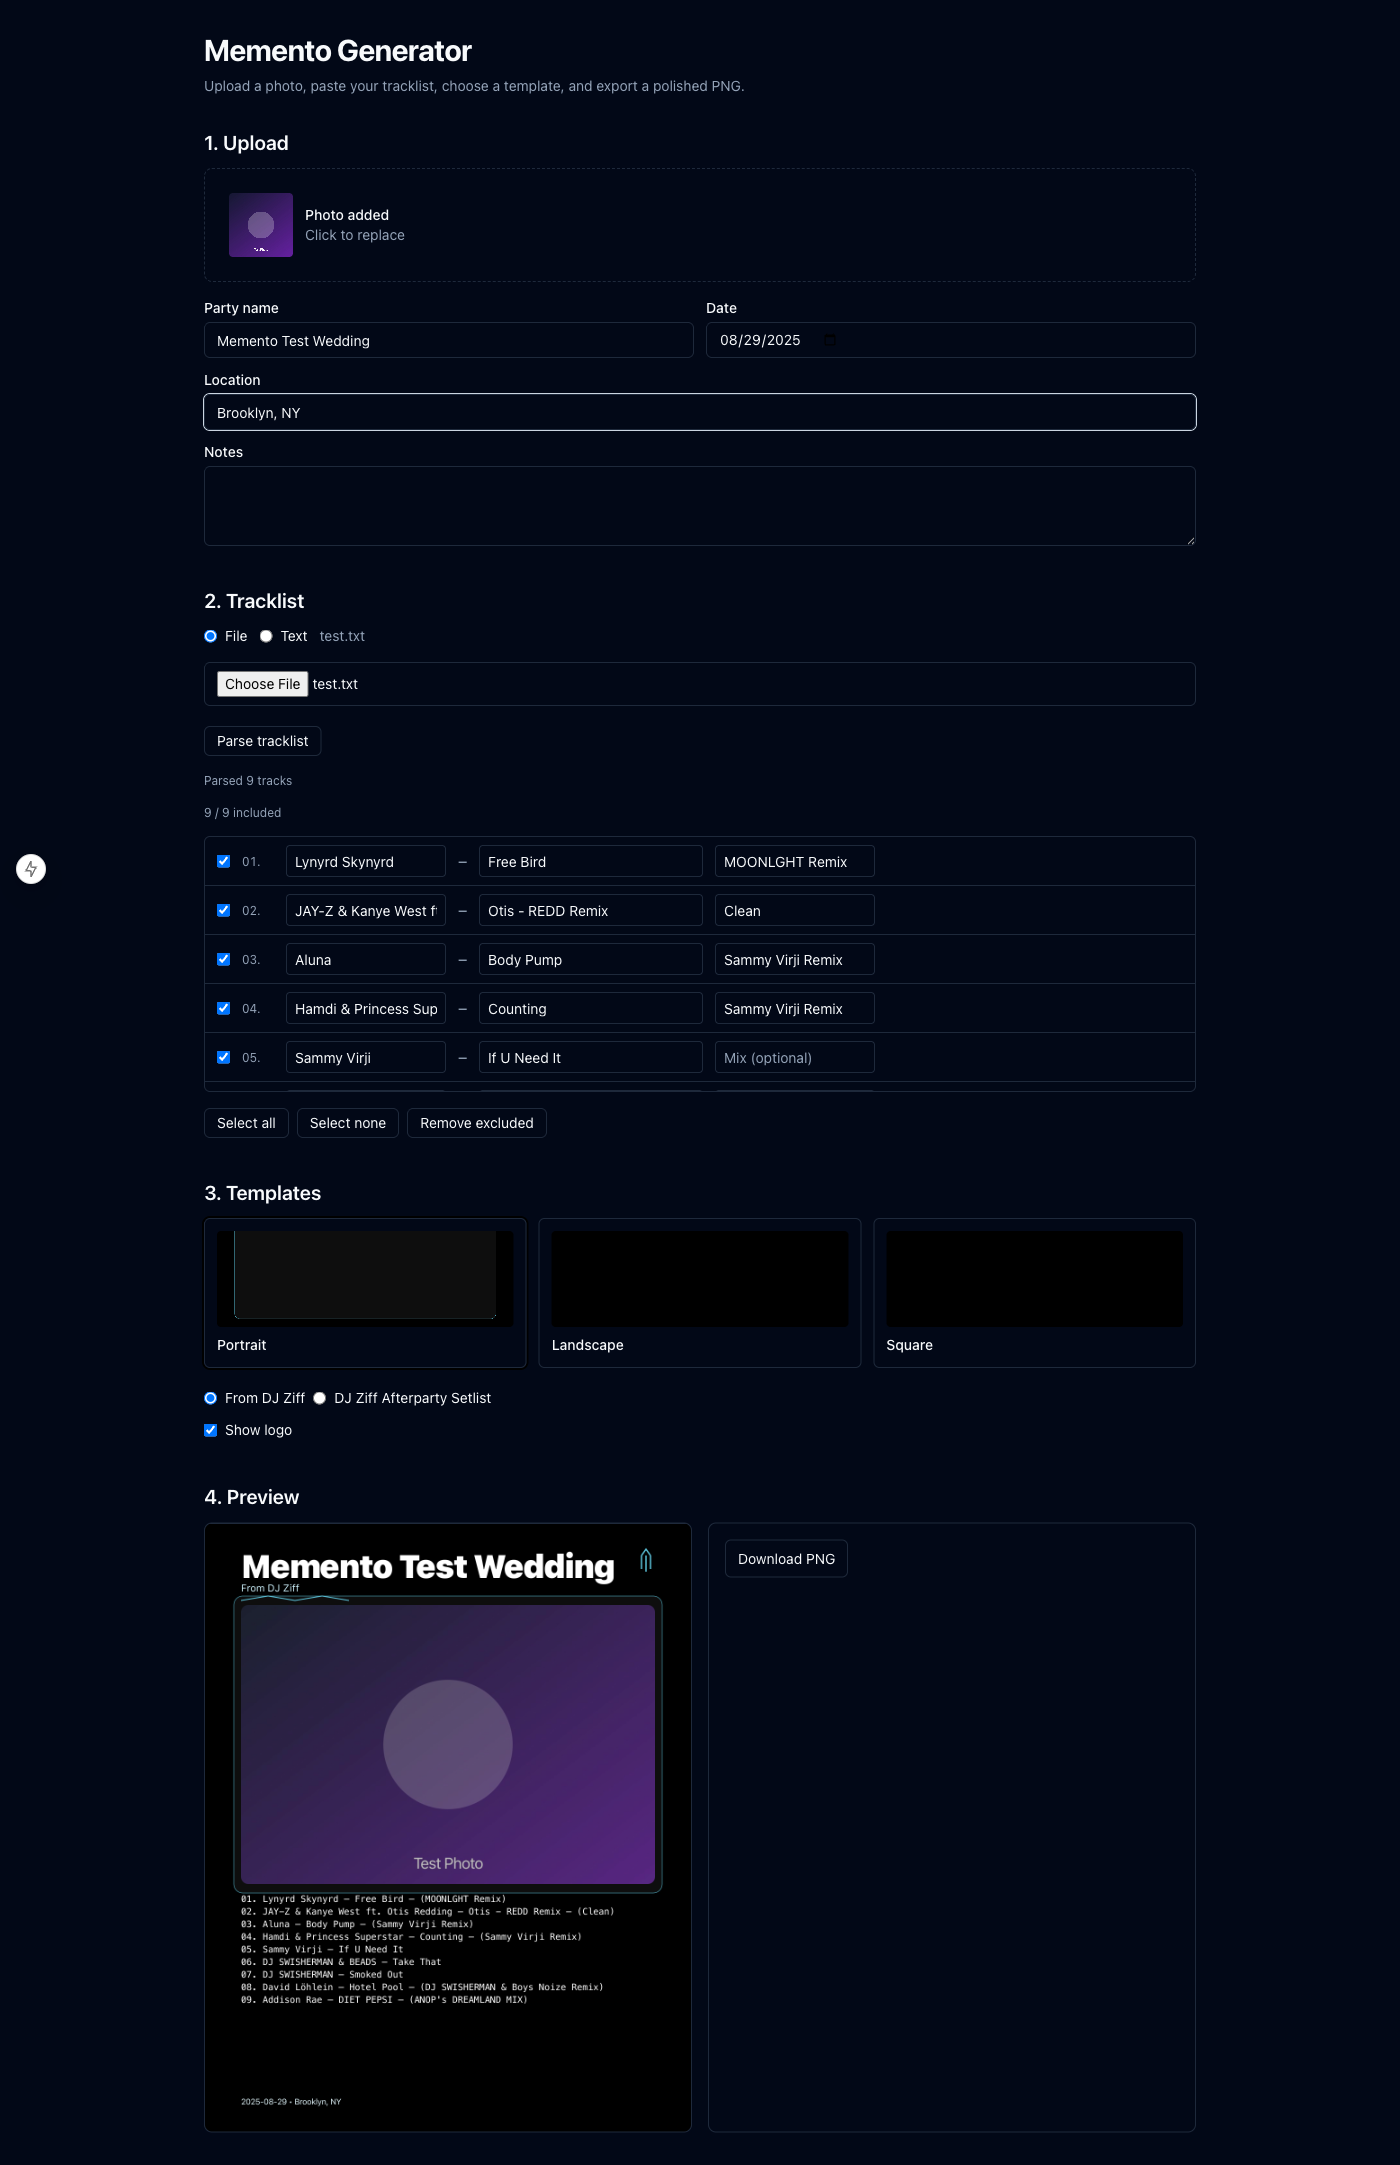
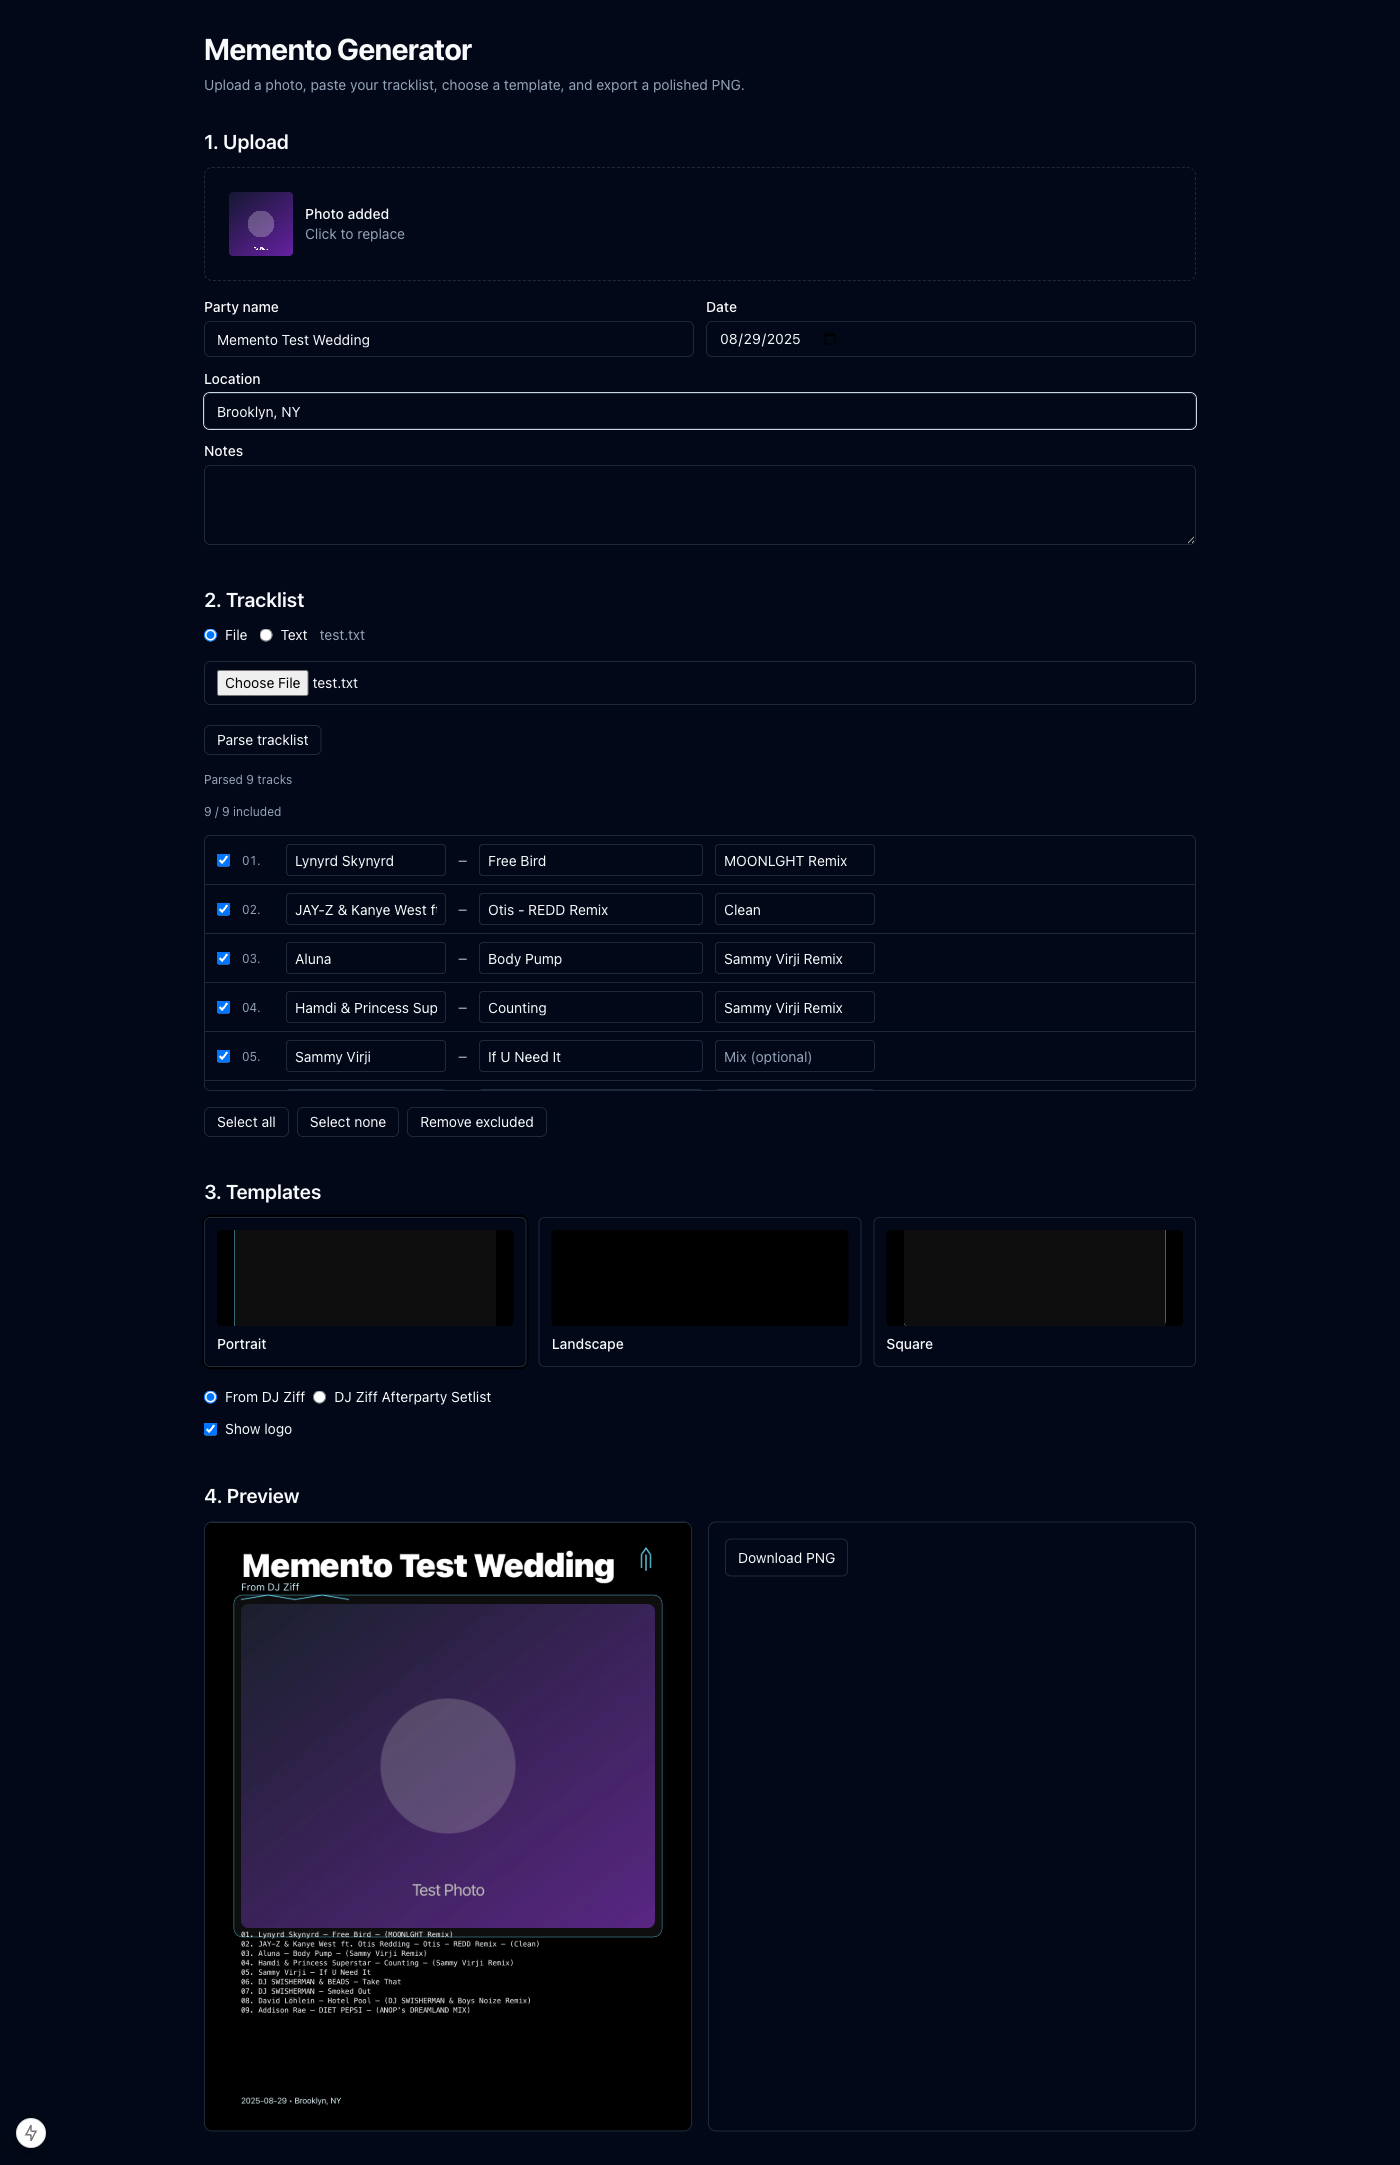
fix other templates

diff --git a/app/(ui)/memento/render/templates.ts b/app/(ui)/memento/render/templates.ts
@@ -38,20 +38,20 @@ export const TEMPLATE_MAP: Record<TemplateId, TemplateConfig> = {
         width: 1080,
         height: 1350,
         // show the whole photo, never crop
-        photoPlacement: { mode: 'rect', x: 80, y: 180, width: 920, height: 620, fit: 'cover', cornerRadius: 16 },
+        photoPlacement: { mode: 'rect', x: 80, y: 180, width: 920, height: 720, fit: 'cover', cornerRadius: 16 },
         overlaySvg: (opts) => {
             const { partyName, subtitleVariant, date, location, tracks, logoDataUrl, photoDataUrl } = opts as TemplateInput & { logoDataUrl?: string; photoDataUrl?: string };
             const subtitle = subtitleVariant === 'from' ? 'From DJ Ziff' : 'DJ Ziff Afterparty Setlist';
             const titleSize = fitTextSizeToWidth(partyName, 1080 - 160, 72, 28);
             const flow = flowTracksToTspans(tracks, {
                 x: 80,
-                y: 840,
+                y: 920,
                 width: 920,
-                height: 430,
-                baseFontSize: 20,
-                minFontSize: 10,
-                lineHeightEm: 1.4,
-                gap: 24,
+                height: 350,
+                baseFontSize: 16,
+                minFontSize: 8,
+                lineHeightEm: 1.3,
+                gap: 18,
                 maxColumns: 2,
             });
             const accent = `#5FC9E1`;
@@ -67,11 +67,11 @@ export const TEMPLATE_MAP: Record<TemplateId, TemplateConfig> = {
             <svg xmlns="http://www.w3.org/2000/svg" xmlns:xlink="http://www.w3.org/1999/xlink" width="1080" height="1350">
                 <defs>
                     <clipPath id="photoClip">
-                        <rect x="80" y="180" width="920" height="620" rx="16" ry="16"/>
+                        <rect x="80" y="180" width="920" height="720" rx="16" ry="16"/>
                     </clipPath>
                 </defs>
-                ${photoDataUrl ? `<image xlink:href="${photoDataUrl}" x="80" y="180" width="920" height="620" preserveAspectRatio="xMidYMid slice" clip-path="url(#photoClip)"/>` : ''}
-                <rect x="64" y="160" width="952" height="660" rx="20" ry="20" fill="#333" fill-opacity="0.3" stroke="#5FC9E1" stroke-width="1"/>
+                ${photoDataUrl ? `<image xlink:href="${photoDataUrl}" x="80" y="180" width="920" height="720" preserveAspectRatio="xMidYMid slice" clip-path="url(#photoClip)"/>` : ''}
+                <rect x="64" y="160" width="952" height="760" rx="20" ry="20" fill="#333" fill-opacity="0.3" stroke="#5FC9E1" stroke-width="1"/>
                 ${zigzag}
                 <text x="80" y="120" font-family="system-ui, sans-serif" font-size="${titleSize}" font-weight="800" fill="#fff">${escapeXml(partyName)}</text>
                 ${trident}
@@ -85,9 +85,9 @@ export const TEMPLATE_MAP: Record<TemplateId, TemplateConfig> = {
     landscape: {
         width: 1600,
         height: 900,
-        photoPlacement: { mode: 'rect', x: 80, y: 180, width: 900, height: 600, fit: 'contain', cornerRadius: 16 },
+        photoPlacement: { mode: 'rect', x: 80, y: 180, width: 900, height: 600, fit: 'cover', cornerRadius: 16 },
         overlaySvg: (opts) => {
-            const { partyName, subtitleVariant, date, location, tracks, logoDataUrl } = opts as TemplateInput & { logoDataUrl?: string };
+            const { partyName, subtitleVariant, date, location, tracks, logoDataUrl, photoDataUrl } = opts as TemplateInput & { logoDataUrl?: string; photoDataUrl?: string };
             const subtitle = subtitleVariant === 'from' ? 'From DJ Ziff' : 'DJ Ziff Afterparty Setlist';
             const titleSize = fitTextSizeToWidth(partyName, 1500 - 160, 64, 26);
             const flow = flowTracksToTspans(tracks, {
@@ -111,11 +111,17 @@ export const TEMPLATE_MAP: Record<TemplateId, TemplateConfig> = {
                     <polyline points="-10,0 0,-14 10,0" />
                 </g>` : '';
             return `<?xml version="1.0" encoding="UTF-8"?>
-            <svg xmlns="http://www.w3.org/2000/svg" width="1600" height="900">
+            <svg xmlns="http://www.w3.org/2000/svg" xmlns:xlink="http://www.w3.org/1999/xlink" width="1600" height="900">
+                <defs>
+                    <clipPath id="photoClipLandscape">
+                        <rect x="80" y="180" width="900" height="600" rx="16" ry="16"/>
+                    </clipPath>
+                </defs>
+                ${photoDataUrl ? `<image xlink:href="${photoDataUrl}" x="80" y="180" width="900" height="600" preserveAspectRatio="xMidYMid slice" clip-path="url(#photoClipLandscape)"/>` : ''}
                 ${zigzag}
                 <text x="80" y="120" font-family="system-ui, sans-serif" font-size="${titleSize}" font-weight="800" fill="#fff">${escapeXml(partyName)}</text>
                 ${trident}
-                ${logoDataUrl ? `<image href="${logoDataUrl}" x="1520" y="90" width="56" height="56"/>` : ''}
+                ${logoDataUrl ? `<image xlink:href="${logoDataUrl}" x="1520" y="90" width="56" height="56" preserveAspectRatio="xMidYMid meet"/>` : ''}
                 <text x="80" y="150" font-family="system-ui, sans-serif" font-size="22" fill="#d1f5ff">${escapeXml(subtitle)}</text>
                 <text font-family="ui-monospace, SFMono-Regular, Menlo, monospace" font-size="${flow.fontSize}" fill="#eaffff">${flow.tspans}</text>
                 <text x="80" y="860" font-family="system-ui, sans-serif" font-size="18" fill="#e5faff">${escapeXml([date, location].filter(Boolean).join(' • '))}</text>
@@ -125,9 +131,9 @@ export const TEMPLATE_MAP: Record<TemplateId, TemplateConfig> = {
     square: {
         width: 1080,
         height: 1080,
-        photoPlacement: { mode: 'rect', x: 80, y: 180, width: 920, height: 520, fit: 'contain', cornerRadius: 16 },
+        photoPlacement: { mode: 'rect', x: 80, y: 180, width: 920, height: 520, fit: 'cover', cornerRadius: 16 },
         overlaySvg: (opts) => {
-            const { partyName, subtitleVariant, date, location, tracks, logoDataUrl } = opts as TemplateInput & { logoDataUrl?: string };
+            const { partyName, subtitleVariant, date, location, tracks, logoDataUrl, photoDataUrl } = opts as TemplateInput & { logoDataUrl?: string; photoDataUrl?: string };
             const subtitle = subtitleVariant === 'from' ? 'From DJ Ziff' : 'DJ Ziff Afterparty Setlist';
             const titleSize = fitTextSizeToWidth(partyName, 1080 - 160, 64, 26);
             const flow = flowTracksToTspans(tracks, {
@@ -150,11 +156,17 @@ export const TEMPLATE_MAP: Record<TemplateId, TemplateConfig> = {
                     <polyline points="-10,0 0,-14 10,0" />
                 </g>` : '';
             return `<?xml version="1.0" encoding="UTF-8"?>
-            <svg xmlns="http://www.w3.org/2000/svg" width="1080" height="1080">
-                <rect x="64" y="160" width="952" height="560" rx="20" ry="20" fill="#000" fill-opacity="0.12"/>
+            <svg xmlns="http://www.w3.org/2000/svg" xmlns:xlink="http://www.w3.org/1999/xlink" width="1080" height="1080">
+                <defs>
+                    <clipPath id="photoClipSquare">
+                        <rect x="80" y="180" width="920" height="520" rx="16" ry="16"/>
+                    </clipPath>
+                </defs>
+                ${photoDataUrl ? `<image xlink:href="${photoDataUrl}" x="80" y="180" width="920" height="520" preserveAspectRatio="xMidYMid slice" clip-path="url(#photoClipSquare)"/>` : ''}
+                <rect x="64" y="160" width="952" height="560" rx="20" ry="20" fill="#333" fill-opacity="0.3" stroke="#5FC9E1" stroke-width="1"/>
                 <text x="80" y="120" font-family="system-ui, sans-serif" font-size="${titleSize}" font-weight="800" fill="#fff">${escapeXml(partyName)}</text>
                 ${trident}
-                ${logoDataUrl ? `<image href="${logoDataUrl}" x="980" y="80" width="56" height="56"/>` : ''}
+                ${logoDataUrl ? `<image xlink:href="${logoDataUrl}" x="980" y="80" width="56" height="56" preserveAspectRatio="xMidYMid meet"/>` : ''}
                 <text x="80" y="150" font-family="system-ui, sans-serif" font-size="22" fill="#d1f5ff">${escapeXml(subtitle)}</text>
                 <text font-family="ui-monospace, SFMono-Regular, Menlo, monospace" font-size="${flow.fontSize}" fill="#fff">${flow.tspans}</text>
                 <text x="80" y="1040" font-family="system-ui, sans-serif" font-size="18" fill="#e5faff">${escapeXml([date, location].filter(Boolean).join(' • '))}</text>

diff --git a/app/(ui)/memento/render/compose.ts b/app/(ui)/memento/render/compose.ts
@@ -48,11 +48,11 @@ export async function composeMemento(payload: RenderPayload): Promise<Buffer> {
     if (!template) throw new Error("Unknown template");
 
     const scale = payload.preview ? 1 : 2;
-    const width = template.width * scale;
-    const height = template.height * scale;
+    const width = template.width;
+    const height = template.height;
 
-    // Base canvas starts as empty black; for full-cover photos we will replace with the photo directly
-    let base = sharp({ create: { width, height, channels: 3, background: { r: 0, g: 0, b: 0 } } }).png();
+    // Base canvas starts as empty black
+    let base = sharp({ create: { width: width * scale, height: height * scale, channels: 3, background: { r: 0, g: 0, b: 0 } } }).png();
 
     // Optional background SVG (e.g., neon grid)
     if (template.backgroundSvg) {
@@ -88,7 +88,13 @@ export async function composeMemento(payload: RenderPayload): Promise<Buffer> {
         logoDataUrl,
         photoDataUrl: payload.photo?.dataUrl,
     } as any);
-    base = base.composite([{ input: Buffer.from(overlaySvg), left: 0, top: 0 }]);
+    // Scale the SVG to match the canvas size
+    const scaledSvg = await sharp(Buffer.from(overlaySvg))
+        .resize(width * scale, height * scale, { fit: 'fill' })
+        .png()
+        .toBuffer();
+        
+    base = base.composite([{ input: scaledSvg, left: 0, top: 0 }]);
 
     return base.png({ compressionLevel: 9 }).toBuffer();
 }
